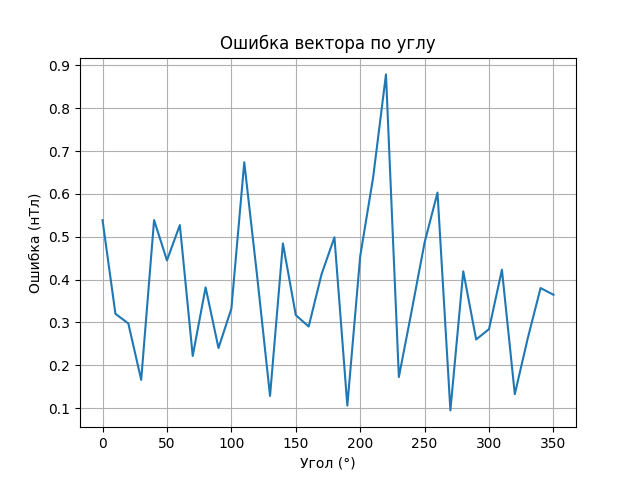
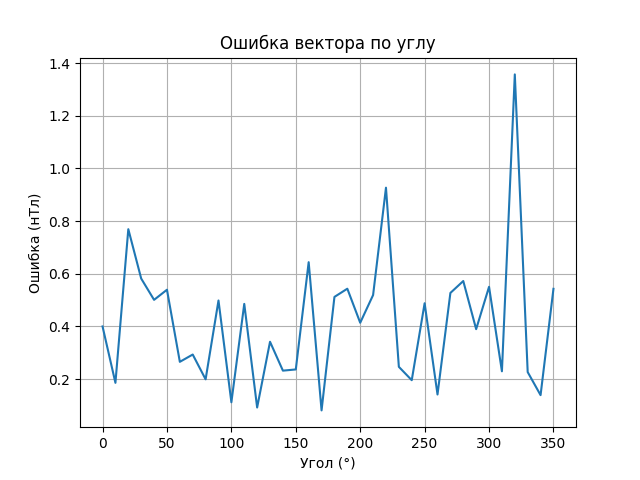
убрал температуру

diff --git a/generate_data.py b/generate_data.py
@@ -25,7 +25,7 @@ rotate_axes = True                          # Применять поворот 
 # Задание направления и величины геомагнитного поля
 
 B_magnitude = 50 # нТл модуль вектора магнитного поля
-theta_deg = 45 # угол между вектором поля и горизонтальной плоскостью
+theta_deg = 45 # угол между вектором поля и горизонтальной плоскости
 phi_deg = 90 # азимут: угол по горизонту. Восток
 
 theta = np.radians(theta_deg)
@@ -43,7 +43,6 @@ angles_rad = np.radians(angles_deg)
 
 # Симуляция поворота на поворотном столе 
 # Вращаем B_real вокруг оси Z (плоскость вращения)
-# Формула взяла из поворота вектора в 2D плоскости
 
 M_ref = np.array([
     [
@@ -60,20 +59,17 @@ if rotate_axes:
     rot_matrix = R.from_euler('xyz', [2, -1, 3], degrees=True).as_matrix()
     M_ref = M_ref @ rot_matrix.T
 
-# 2. Искажения: bias + scale + soft-iron (матрица) + шум 
+# Добавляем шум к эталонным данным и порог детекции
 
-ref_noise = np.random.normal(0, ref_noise_std, M_ref.shape)  # шум
+ref_noise = np.random.normal(0, ref_noise_std, M_ref.shape)
 M_ref_noisy = M_ref + ref_noise
 M_ref_final = np.where(np.abs(M_ref_noisy) < detection_threshold, 0, M_ref_noisy)
 
-# === Температурная модель ===
-temperatures = 20 + 10 * np.sin(np.radians(angles_deg))  # [20°C .. 30°C]
+# === Температурная модель убрана ===
+# Используем константный bias и sensitivity без зависимости от температуры
 
-bias_temp_coef = np.array([0.01, -0.015, 0.005])
-sens_temp_coef = np.array([0.002, 0.001, -0.001])
-
-bias_temp = bias + (temperatures[:, None] - 25) * bias_temp_coef
-sensitivity_temp = sensitivity + (temperatures[:, None] - 25) * sens_temp_coef
+bias_temp = np.tile(bias, (len(angles_deg), 1))            # просто bias
+sensitivity_temp = np.tile(sensitivity, (len(angles_deg), 1))  # просто sensitivity
 
 # === Калибруемый магнитометр ===
 M_raw = M_ref_final * sensitivity_temp
@@ -82,11 +78,10 @@ M_raw = (M_raw @ A.T) + bias_temp
 noise = np.random.normal(0, noise_std, M_ref.shape)
 M_raw += noise
 
-# 3. Сохраняем в CSV 
+# 3. Сохраняем в CSV без температуры
 
 df = pd.DataFrame({
     "angle_deg": angles_deg,
-    "temperature_C": temperatures,
     "raw_x": M_raw[:, 0],
     "raw_y": M_raw[:, 1],
     "raw_z": M_raw[:, 2],

diff --git a/calibrate.py b/calibrate.py
@@ -8,17 +8,11 @@ from sklearn.linear_model import Ridge
 df = pd.read_csv("calibration_data.csv")
 M_raw = df[["raw_x", "raw_y", "raw_z"]].to_numpy()
 M_ref = df[["ref_x", "ref_y", "ref_z"]].to_numpy()
-temperatures = df["temperature_C"].to_numpy()
 angles = df["angle_deg"].to_numpy()
 
-# === ТЕМПЕРАТУРНАЯ КОМПЕНСАЦИЯ ===
-bias_temp_coef = np.array([0.01, -0.015, 0.005])
-sens_temp_coef = np.array([0.002, 0.001, -0.001])
-T_ref = 25.0
-
-bias_temp = (temperatures[:, None] - T_ref) * bias_temp_coef
-sensitivity_temp = 1.0 + (temperatures[:, None] - T_ref) * sens_temp_coef
-M_raw_corrected = (M_raw - bias_temp) / sensitivity_temp
+# === БЛОК ТЕМПЕРАТУРНОЙ КОМПЕНСАЦИИ УБРАН ===
+# Используем M_raw без коррекции температуры
+M_raw_corrected = M_raw.copy()
 
 # === КАЛИБРОВКА ===
 b = np.mean(M_raw_corrected - M_ref, axis=0)
@@ -75,14 +69,7 @@ plt.grid(True)
 plt.savefig("error_vs_angle.png")
 plt.close()
 
-plt.figure()
-plt.plot(temperatures, error, 'o-')
-plt.title("Ошибка вектора по температуре")
-plt.xlabel("Температура (°C)")
-plt.ylabel("Ошибка (нТл)")
-plt.grid(True)
-plt.savefig("error_vs_temperature.png")
-plt.close()
+# === График ошибки по температуре убран ===
 
 # === СОХРАНЕНИЕ ===
 calibration = {
@@ -97,10 +84,8 @@ calibration = {
             "x^3", "y^3", "z^3",
             "x^2*y", "x*y^2", "x*z^2", "y*z^2"],
         "model_type": "Ridge(alpha=0.1)"
-    },
-    "temperature_ref": T_ref,
-    "bias_temp_coef": bias_temp_coef.tolist(),
-    "sens_temp_coef": sens_temp_coef.tolist()
+    }
+    # Убраны параметры, связанные с температурой
 }
 
 with open("calibration_result.json", "w") as f:
